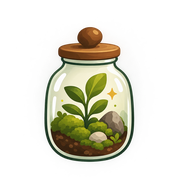
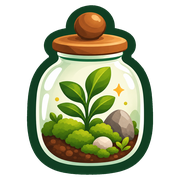
Wear the new jar in the browser tab
The artwork that arrived as favicon2.png had the editor's transparency
checkerboard flattened into it — #fefefe and #f0f0f0 squares as real pixels,
no alpha channel at all — so used as-is it would have put a grey chequered
square in the tab rather than a jar. The pattern is flood-filled away from the
border, which leaves the pale highlight inside the glass alone because the
jar's dark outline encloses it, and the matte is pulled in a hair and
feathered to take off the fringe the checker left under the anti-aliased rim.

The export also carried about 190px of dead space down each side against 26px
at the bottom, which at 16px is real estate the glyph cannot spare. The icons
are cut from the trimmed artwork re-centred on a square, and the .ico now
carries 16/32/48 so a tab slot gets a size drawn for it instead of a 48
squeezed down.

The filenames did not change, and a favicon is about the most stubbornly cached
thing a browser holds, so the links carry ?v=2.

icon-source.png is left where it is — it is the previous artwork and still the
source for nothing else, but deleting it was not asked for.

diff --git a/index.html b/index.html
@@ -12,13 +12,15 @@
       content="width=device-width, initial-scale=1.0, viewport-fit=cover"
     />
     <title>Potroneer — Virtual Terrarium Builder</title>
-    <!-- The artwork is public/icon-source.png; favicon.ico (16/32/48) and the
-         two PNGs are cut from it. The .ico is here for the browser's automatic
+    <!-- The artwork is public/favicon2.png; favicon.ico (16/32/48) and the two
+         PNGs are cut from it. The .ico is here for the browser's automatic
          /favicon.ico request — without it that hit would 404 or, worse, serve
-         a megabyte. -->
-    <link rel="icon" href="/favicon.ico" sizes="any" />
-    <link rel="icon" type="image/png" sizes="32x32" href="/favicon-32.png" />
-    <link rel="apple-touch-icon" href="/apple-touch-icon.png" />
+         a megabyte. The ?v= is not decoration: the filenames did not change
+         when the artwork did, and a favicon is one of the most stubbornly
+         cached things a browser holds. -->
+    <link rel="icon" href="/favicon.ico?v=2" sizes="any" />
+    <link rel="icon" type="image/png" sizes="32x32" href="/favicon-32.png?v=2" />
+    <link rel="apple-touch-icon" href="/apple-touch-icon.png?v=2" />
     <link
       href="https://fonts.googleapis.com/css2?family=Hind+Siliguri:wght@400;500;600&display=swap"
       rel="stylesheet"
